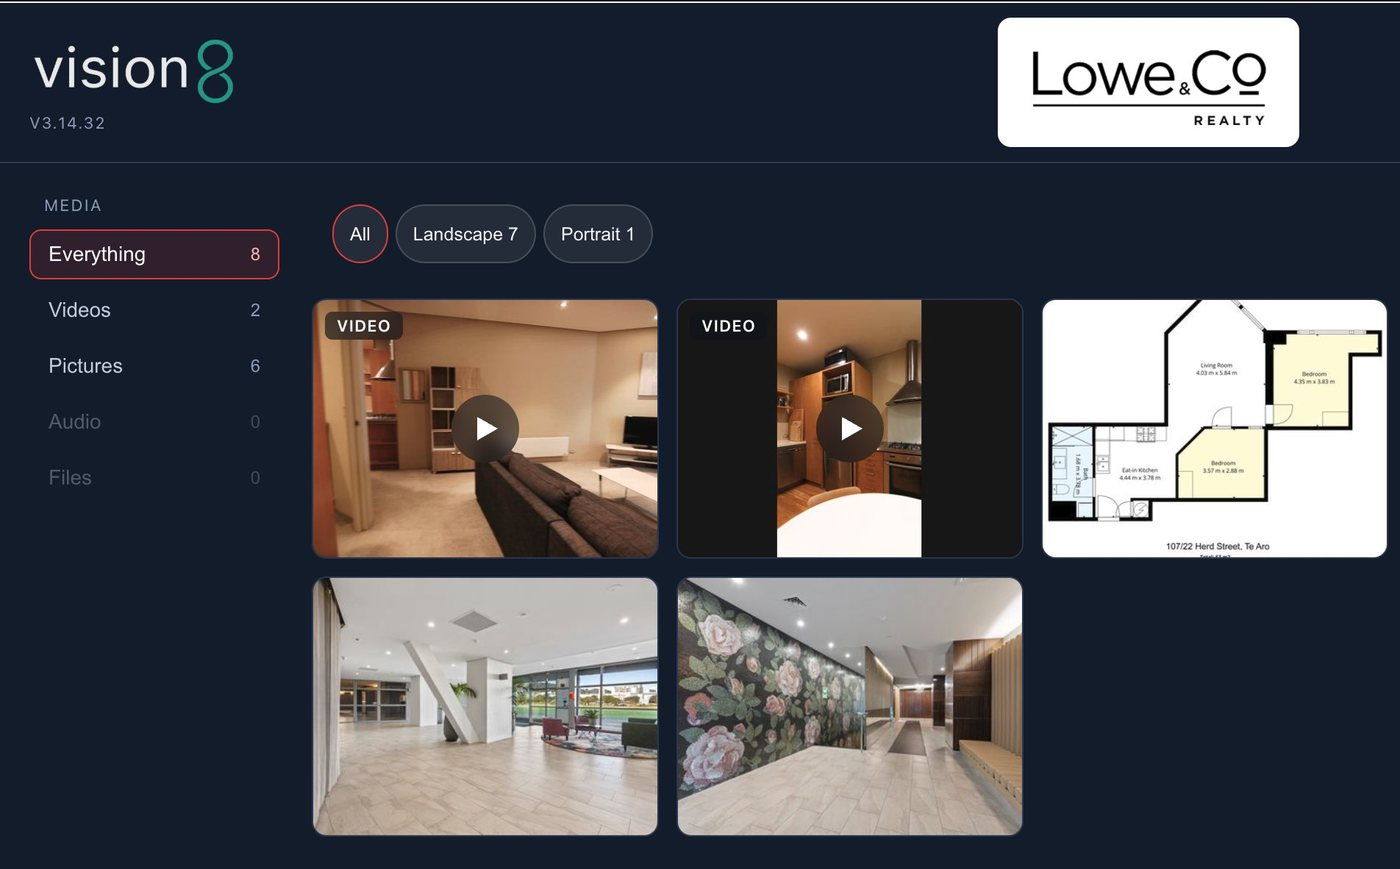
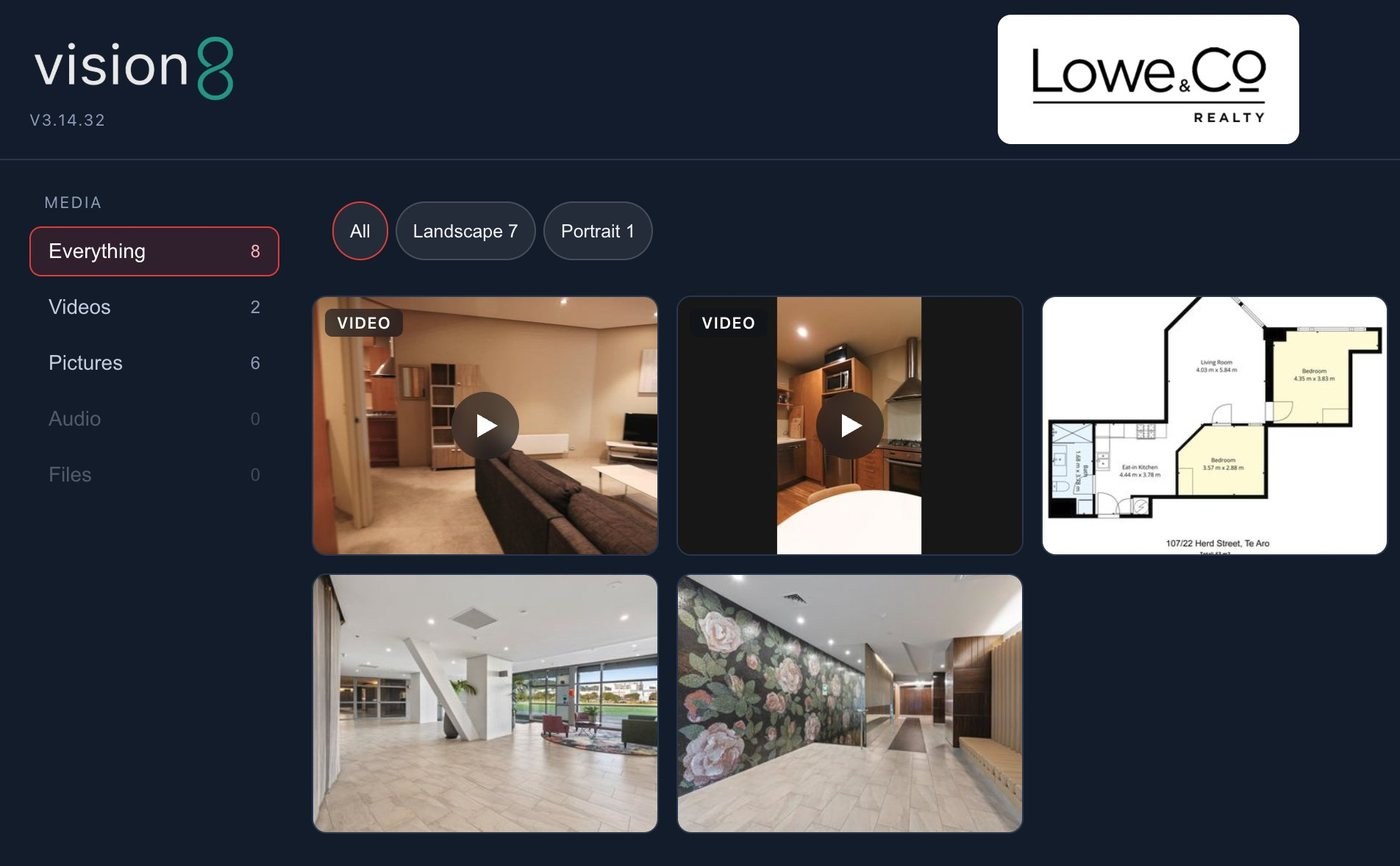
Build v1.11.54 Real Estate: new people reel, Photography above Drone, breadth quote out, workspace image cropped, drone frame 25 percent smaller
On the client's mark:

- People reel is "Testimonial 2026 Web 2" from the public assets prefix
  (verified from outside: range 206, video/mp4, 14.5MB), off the
  vision8-website collection. The cleared-media test asserts the new URL.
- The photography section moves above Drone. Order is now hero, opening
  quote, Experience, People, Photography, Drone, 360 tours, floor plans,
  Delivery, closing.
- Harry's "breadth" excerpt is removed from the page; three of his remain.
- The white line at the top of the client workspace image is cropped out,
  re-derived from the supplied source.
- The drone frame is a quarter narrower: .re-split.re-drone goes 7fr 5fr to
  7fr 3.18fr, measured 507px to 380px at 1440.

Stamps and BUILD to v1.11.54. npm test green, 18 tests.

diff --git a/app/real-estate-media/page.tsx b/app/real-estate-media/page.tsx
@@ -44,11 +44,13 @@ const MEDIA = "https://media.vision8.co.nz/library/public/collections-media/visi
 // outside before wiring in: bare fetch 200, `video/mp4`, 54.7MB, `Accept-Ranges:
 // bytes`. Promo V2 reduced stays in the collection but is no longer used here.
 const PROPERTY_REEL = "https://media.vision8.co.nz/library/public/assets/vision8-real-estate-promo-v6/vision8-real-estate-promo-v6_1080p.mp4";
-// The re-cut, `-2`. Replacing an asset retires the URL the old one had: the
-// original `testimonial-2026c` went to 403 the moment this was published, and
-// so did the Matterport example. Any swap here needs the whole collection
-// re-checked, not just the file that changed.
-const PEOPLE_VIDEO = `${MEDIA}/testimonial-2026c-2/download.mp4`;
+// v1.11.54: the people reel is "Testimonial 2026 Web 2" from the public assets
+// prefix, not the vision8-website collection, so it no longer depends on that
+// collection staying published. Verified from outside before wiring in: range
+// request 206, `video/mp4`, 14.5MB. The collection cut it replaces,
+// `testimonial-2026c-2/download.mp4`, is no longer referenced here.
+const PEOPLE_VIDEO =
+  "https://media.vision8.co.nz/library/public/assets/testimonial-2026-web-2/testimonial-2026-web-2_1080p.mp4";
 const MATTERPORT_VIDEO = `${MEDIA}/matterport-video-examples/download.mp4`;
 /*
   Helen's portrait sits in the v8-photos collection rather than vision8-website,
@@ -95,8 +97,9 @@ const VOICE = {
     "Vision8 have a great understanding of real estate and know how to capture a property in a way that makes it look its absolute best while still feeling authentic.",
   camera:
     "Andy knows how to make you feel comfortable and confident on camera, which makes the whole process feel very natural.",
-  breadth:
-    "Whether it\u2019s shooting, editing, photography, 3D walkthroughs or helping bring an idea to life, Vision8 understands what is needed and delivers.",
+  /* v1.11.54: `breadth` ("Whether it's shooting, editing, photography, 3D
+     walkthroughs...") removed from the page on the client's mark. Three of
+     Harry's excerpts remain. */
   working:
     "What really sets Vision8 apart is how easy Vision8 are to deal with. Professional, reliable, creative and always willing to go the extra mile to get the right result.",
 };
@@ -261,9 +264,75 @@ export default function RealEstateMediaPage() {
         </div>
       </section>
 
+      <section className="re-section">
+        <div className="re-inner">
+          <div className="re-section-head">
+            <p className="re-eyebrow">Photography</p>
+            <h2>The essentials still matter.</h2>
+          </div>
+          <div>
+            <h3>Photography</h3>
+            <p>Clean, considered property photography with an eye for the details that make a home feel right.</p>
+          </div>
+          {/* Six, as the brief asked. Every image here was opened at full size
+              before shipping; that check has now rejected three supplied files
+              across the site, including a watermarked one from this batch. */}
+          <div className="re-photo-grid" aria-label="Property photography">
+            <img src="/real-estate/crawford-exterior.jpg" alt="Modern hillside home with glass corner living room and deck" loading="lazy" />
+            <img src="/real-estate/crawford-living.jpg" alt="Open living and dining room with timber ceiling and harbour view" loading="lazy" />
+            <img src="/real-estate/drone-aerial.jpg" alt="Aerial view of a modernist home on a bush-clad hillside" loading="lazy" />
+            <img src="/real-estate/homewood-living.jpg" alt="Bright living room with skylights and garden doors" loading="lazy" />
+            <img src="/real-estate/villa-entrance.jpg" alt="Villa entrance with clipped hedges and stone driveway" loading="lazy" />
+            <img src="/real-estate/karaka-dusk.jpg" alt="Covered deck at dusk with lit timber walls and rural outlook" loading="lazy" />
+          </div>
+          {/*
+            v1.11.44 put the Experience copy here, above the pair; v1.11.53
+            moved it, with the strip, to its own section above People on the
+            client's mark. The pair and its note stay with the photography.
+
+            Helen's portrait comes from the v8-photos collection, not
+            vision8-website like everything else on this page, and the public
+            form of the URL is the only one the site can read: the address
+            copied out of the portal, /library/vision8/website/photography-page/
+            <slug>/optimised.jpg, answers 403 to anyone not logged in. The
+            manifest at /library/public/collections/v8-photos.json is what to
+            read if this slug ever moves. Verified from outside before wiring
+            in: 200, image/jpeg, 1339x1600.
+
+            One frame each side of the copy. Both take the same 4/5 crop at the
+            same fixed column width, so the two are identical in size whatever
+            their sources measure: Helen's is 1339x1600, the stabiliser frame
+            1466x2500.
+          */}
+          <div className="re-collab">
+            <figure>
+              <img src={HELEN_PORTRAIT} alt="Helen Gwyther adjusting a flash-mounted camera on a tripod" loading="lazy" />
+              <figcaption>Helen Gwyther - <span>Photographer</span></figcaption>
+            </figure>
+            <p>
+              I often team up with Helen on real estate projects. Helen is a consummate professional. She has over 10
+              years’ experience in real estate photography and a sharp eye for detail.
+              <br />
+              With Helen behind the camera, clients receive a high quality set of still images every time.
+            </p>
+            <figure>
+              <img src="/real-estate/andy-stabiliser.jpg" alt="Andy McGrath filming inside a home with a gimbal-mounted camera" loading="lazy" />
+              <figcaption>Andy McGrath - <span>Video Producer</span></figcaption>
+            </figure>
+          </div>
+
+          <blockquote className="re-voice">
+            <p>{VOICE.working}</p>
+            <footer className="re-voice-by">{VOICE_BY}</footer>
+          </blockquote>
+
+        </div>
+      </section>
+
+
       {/*
-        v1.11.50: 02 Drone, between People and the 360 tours on the client's
-        mark. Three parts: the claim beside a picture of the operation, a client
+        v1.11.50: Drone, on the client's mark. v1.11.54: it follows the
+        photography section, which moved above it. Three parts: the claim beside a picture of the operation, a client
         confirming it, and a slim strip of where the eye came from. The
         certificate itself is deliberately not shown: the photo was cropped out
         of a composite that carried it, and the licence point is made in one
@@ -332,10 +401,6 @@ export default function RealEstateMediaPage() {
               )}
             </div>
           </ViewportPlay>
-          <blockquote className="re-voice">
-            <p>{VOICE.breadth}</p>
-            <footer className="re-voice-by">{VOICE_BY}</footer>
-          </blockquote>
         </div>
       </section>
 
@@ -360,71 +425,6 @@ export default function RealEstateMediaPage() {
               </p>
             </div>
           </div>
-        </div>
-      </section>
-
-      <section className="re-section">
-        <div className="re-inner">
-          <div className="re-section-head">
-            <p className="re-eyebrow">Photography</p>
-            <h2>The essentials still matter.</h2>
-          </div>
-          <div>
-            <h3>Photography</h3>
-            <p>Clean, considered property photography with an eye for the details that make a home feel right.</p>
-          </div>
-          {/* Six, as the brief asked. Every image here was opened at full size
-              before shipping; that check has now rejected three supplied files
-              across the site, including a watermarked one from this batch. */}
-          <div className="re-photo-grid" aria-label="Property photography">
-            <img src="/real-estate/crawford-exterior.jpg" alt="Modern hillside home with glass corner living room and deck" loading="lazy" />
-            <img src="/real-estate/crawford-living.jpg" alt="Open living and dining room with timber ceiling and harbour view" loading="lazy" />
-            <img src="/real-estate/drone-aerial.jpg" alt="Aerial view of a modernist home on a bush-clad hillside" loading="lazy" />
-            <img src="/real-estate/homewood-living.jpg" alt="Bright living room with skylights and garden doors" loading="lazy" />
-            <img src="/real-estate/villa-entrance.jpg" alt="Villa entrance with clipped hedges and stone driveway" loading="lazy" />
-            <img src="/real-estate/karaka-dusk.jpg" alt="Covered deck at dusk with lit timber walls and rural outlook" loading="lazy" />
-          </div>
-          {/*
-            v1.11.44 put the Experience copy here, above the pair; v1.11.53
-            moved it, with the strip, to its own section above People on the
-            client's mark. The pair and its note stay with the photography.
-
-            Helen's portrait comes from the v8-photos collection, not
-            vision8-website like everything else on this page, and the public
-            form of the URL is the only one the site can read: the address
-            copied out of the portal, /library/vision8/website/photography-page/
-            <slug>/optimised.jpg, answers 403 to anyone not logged in. The
-            manifest at /library/public/collections/v8-photos.json is what to
-            read if this slug ever moves. Verified from outside before wiring
-            in: 200, image/jpeg, 1339x1600.
-
-            One frame each side of the copy. Both take the same 4/5 crop at the
-            same fixed column width, so the two are identical in size whatever
-            their sources measure: Helen's is 1339x1600, the stabiliser frame
-            1466x2500.
-          */}
-          <div className="re-collab">
-            <figure>
-              <img src={HELEN_PORTRAIT} alt="Helen Gwyther adjusting a flash-mounted camera on a tripod" loading="lazy" />
-              <figcaption>Helen Gwyther - <span>Photographer</span></figcaption>
-            </figure>
-            <p>
-              I often team up with Helen on real estate projects. Helen is a consummate professional. She has over 10
-              years’ experience in real estate photography and a sharp eye for detail.
-              <br />
-              With Helen behind the camera, clients receive a high quality set of still images every time.
-            </p>
-            <figure>
-              <img src="/real-estate/andy-stabiliser.jpg" alt="Andy McGrath filming inside a home with a gimbal-mounted camera" loading="lazy" />
-              <figcaption>Andy McGrath - <span>Video Producer</span></figcaption>
-            </figure>
-          </div>
-
-          <blockquote className="re-voice">
-            <p>{VOICE.working}</p>
-            <footer className="re-voice-by">{VOICE_BY}</footer>
-          </blockquote>
-
         </div>
       </section>
 
@@ -478,7 +478,7 @@ export default function RealEstateMediaPage() {
         </div>
       </section>
 
-      <p className="portfolio-build">Build v1.11.53</p>
+      <p className="portfolio-build">Build v1.11.54</p>
     </main>
   );
 }

diff --git a/app/portfolio-shell.tsx b/app/portfolio-shell.tsx
@@ -5,7 +5,7 @@ const CLOUD = "https://res.cloudinary.com/deyb4o5qz";
 const LOGO = `${CLOUD}/image/upload/v1785634240/new_vision8_logo_design_clean_2_whfcvy.png`;
 // Exported for the photography editor: its localStorage key is derived from
 // the build, the same guard the homepage editor uses (trap 4 in AGENTS.md).
-export const BUILD = "v1.11.53";
+export const BUILD = "v1.11.54";
 
 // Returning to the homepage from an internal page should not replay the 3.2s
 // logo intro; it is an opening, not a transition. The homepage reads this and

diff --git a/app/homepage-v1.10.3.tsx b/app/homepage-v1.10.3.tsx
@@ -97,7 +97,7 @@ const LOGO = `${CLOUD}/image/upload/v1785634240/new_vision8_logo_design_clean_2_
 const VIDEO_SITE = "/video";
 const PEOPLE = "/about";
 const VIDEO_IMAGE = `${CLOUD}/image/upload/f_auto,q_auto,w_1800/v1785665173/Adventuresmart_still_7_kbz7fl.png`;
-const BUILD = "v1.11.53";
+const BUILD = "v1.11.54";
 
 // Keyed by build on purpose. The persist effect writes every record, mediaUrl
 // included, on first visit whether or not the editor was opened, and the load

diff --git a/app/portfolio-pages.css b/app/portfolio-pages.css
@@ -1847,7 +1847,10 @@
   820px block names .re-drone with .re-flip so it stacks and leads.
 */
 .re-split.re-drone {
-  grid-template-columns: 7fr 5fr;
+  /* v1.11.54: the frame is a quarter smaller on the client's mark, so the
+     copy column takes what it gives up: 5fr of a 12fr split is a quarter
+     less than the 5fr of a 9fr one at the same total. */
+  grid-template-columns: 7fr 3.18fr;
 }
 
 .re-split.re-drone > figure {

diff --git a/app/video/page.tsx b/app/video/page.tsx
@@ -26,7 +26,7 @@ export default async function VideoPage({
         </div>
         <VideoServices openSlug={service} />
       </section>
-      <p className="portfolio-build">Build v1.11.53</p>
+      <p className="portfolio-build">Build v1.11.54</p>
     </main>
   );
 }

diff --git a/app/about/page.tsx b/app/about/page.tsx
@@ -58,7 +58,7 @@ export default function AboutPage() {
           ))}
         </div>
       </section>
-      <p className="portfolio-build">Build v1.11.53</p>
+      <p className="portfolio-build">Build v1.11.54</p>
     </main>
   );
 }

diff --git a/app/audio/page.tsx b/app/audio/page.tsx
@@ -298,7 +298,7 @@ export default function AudioPage() {
         </div>
       </section>
 
-      <p className="portfolio-build">Build v1.11.53</p>
+      <p className="portfolio-build">Build v1.11.54</p>
     </main>
   );
 }
